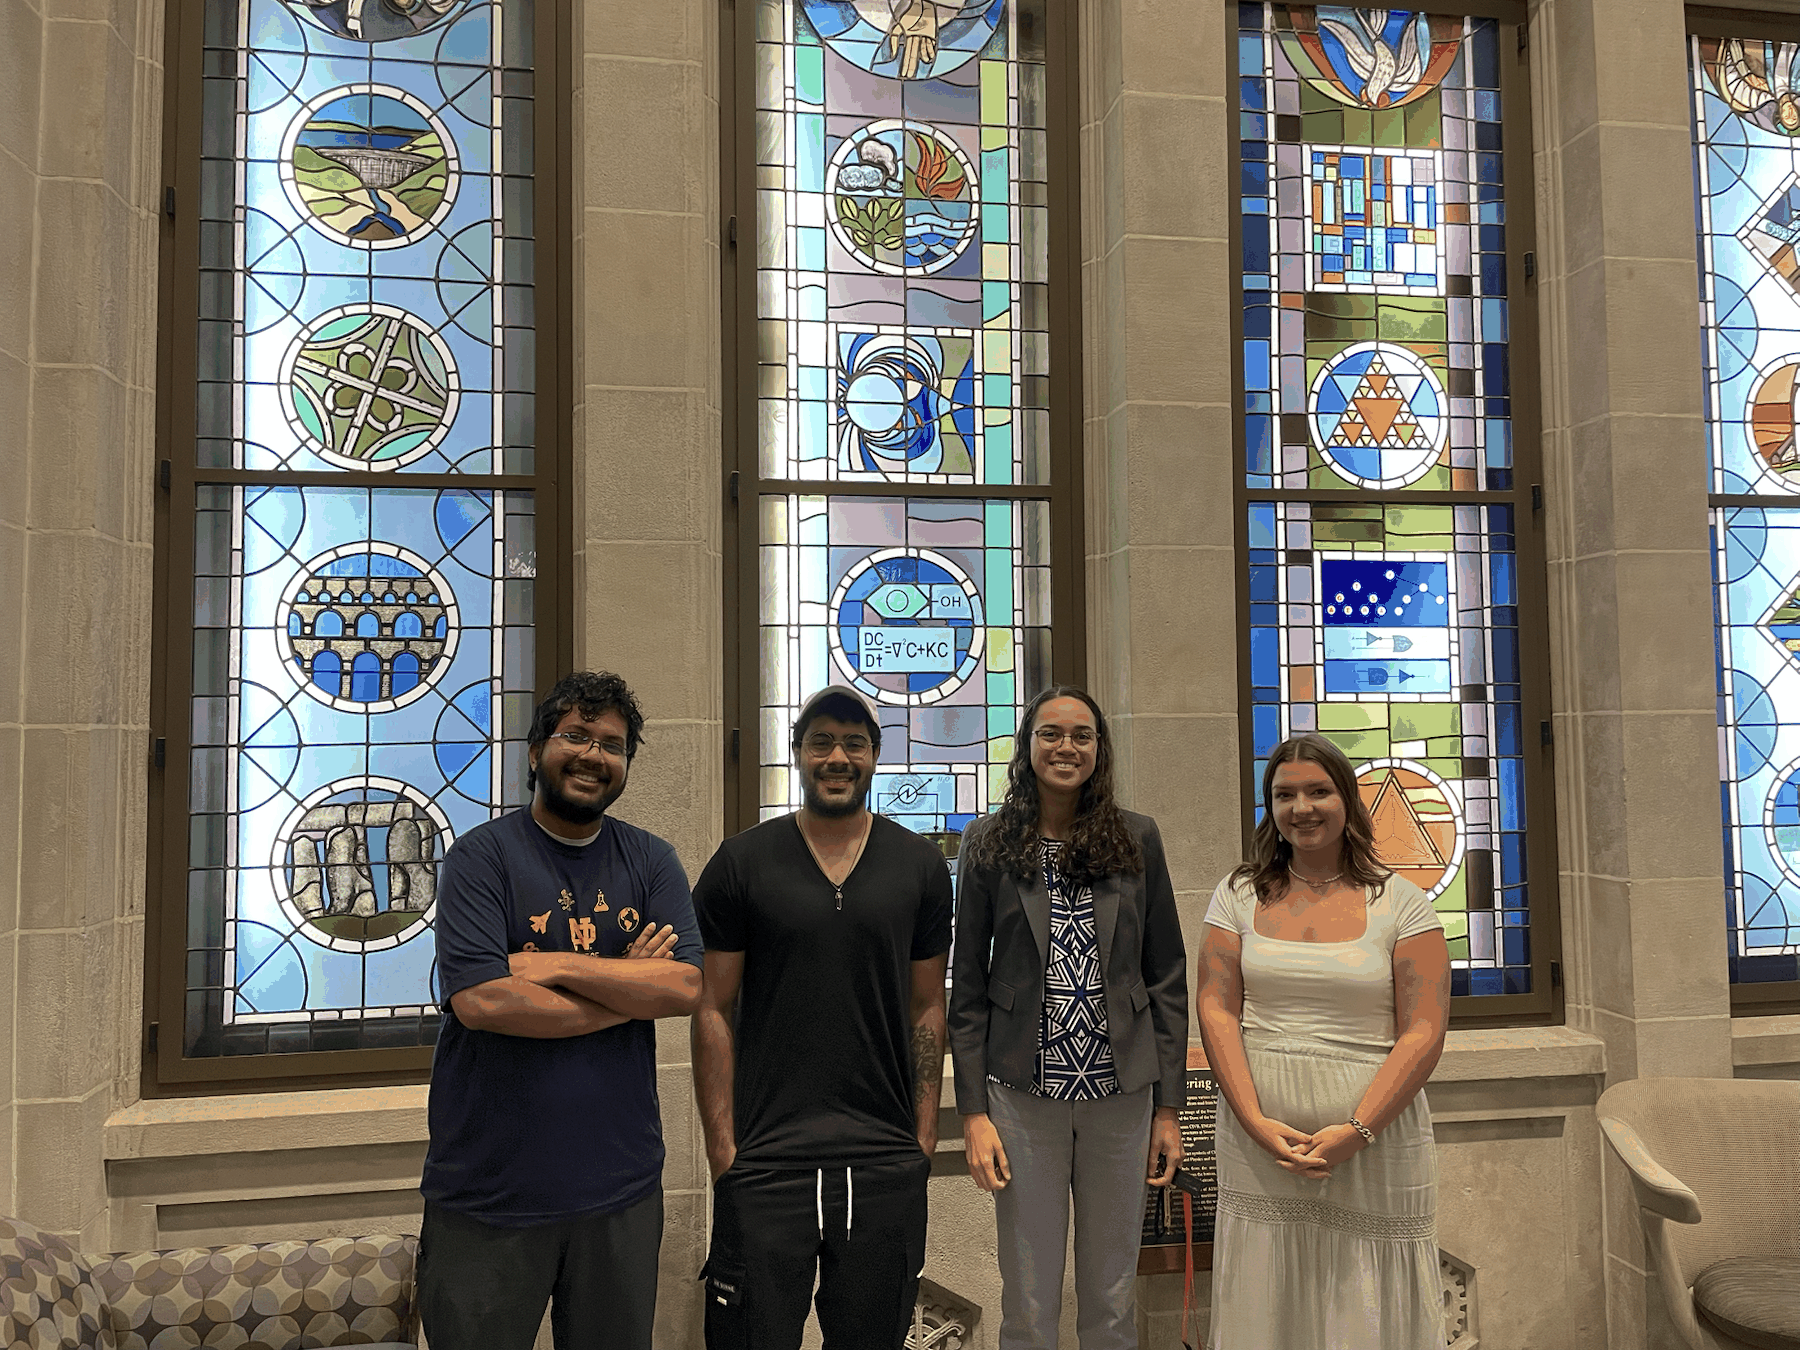
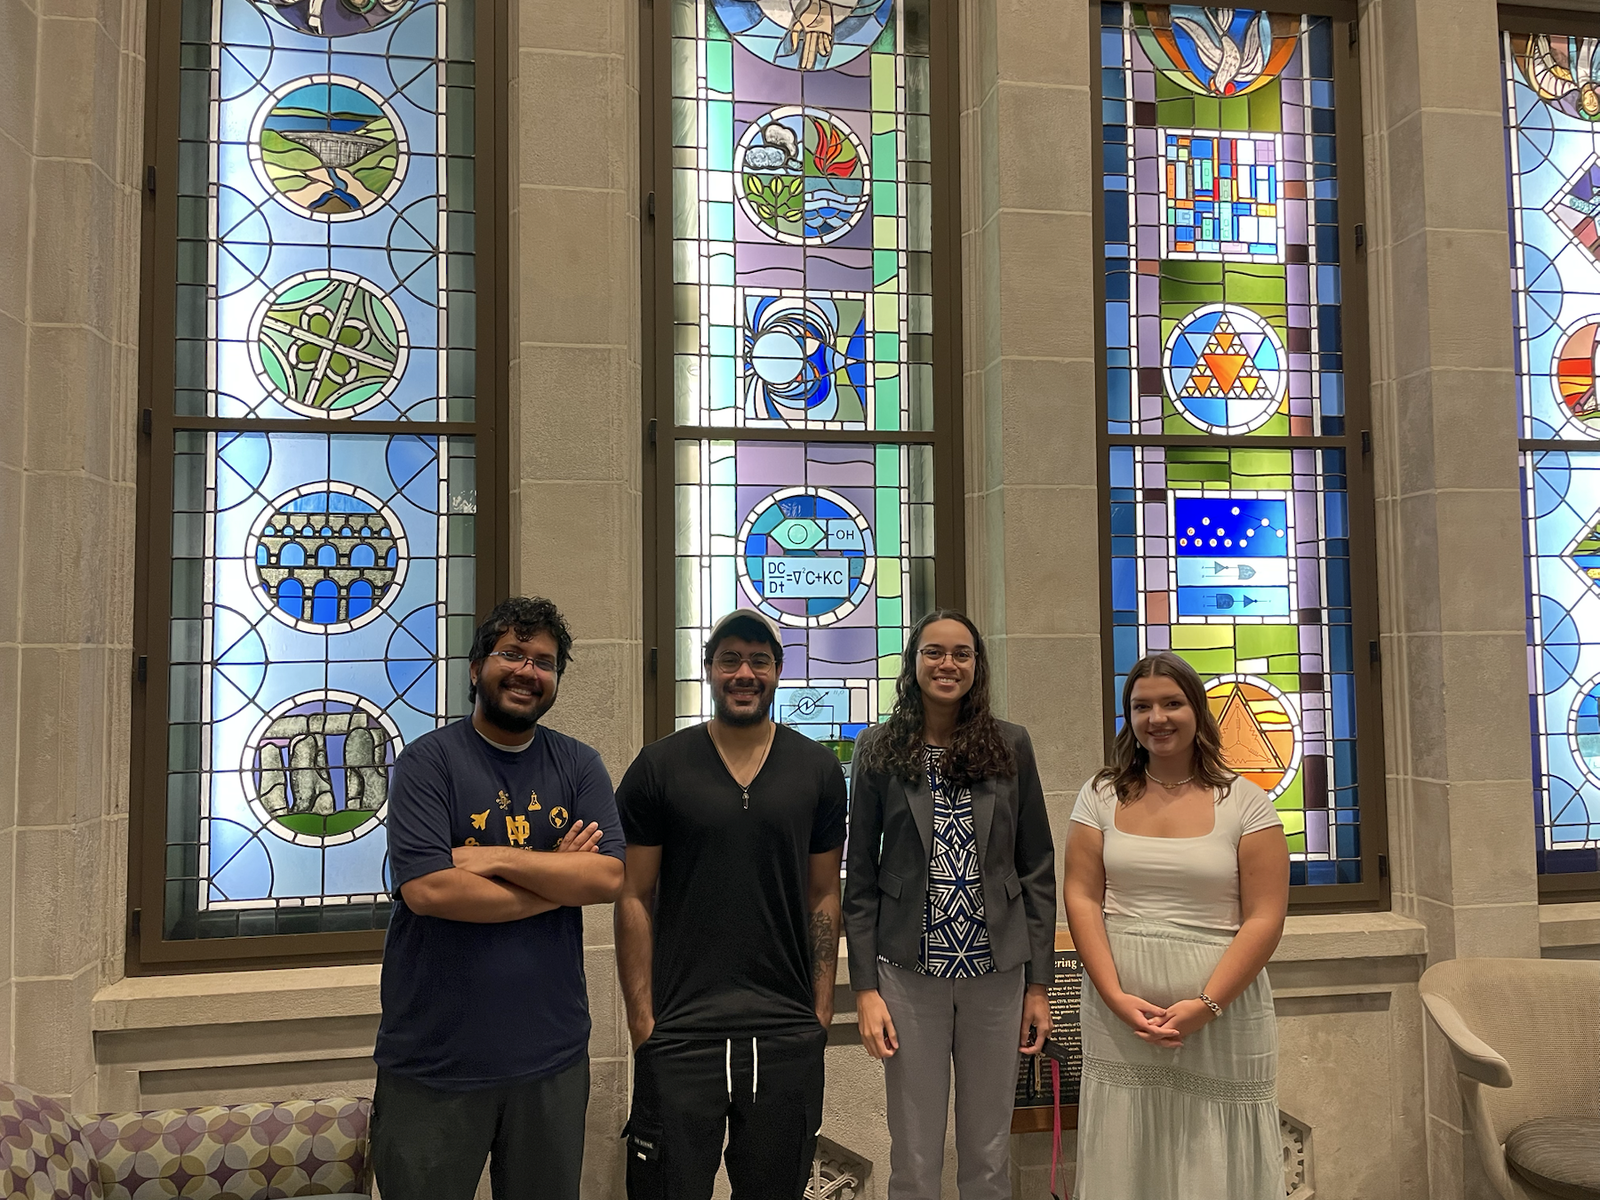
Changes

diff --git a/photos.html b/photos.html
@@ -21,7 +21,7 @@ permalink: /photos/
         <p class="photo-event__caption">Latif’s PhD hooding ceremony. Congratulations, Dr. Siddiq!</p>
       </div>
       <div class="photo-grid">
-        {% include photo_card.html file="img_3236.png" width="1350" height="1800" alt="S2E Lab graduation celebration" %}
+        {% include photo_card.html file="img_3236.png" width="1200" height="1600" alt="S2E Lab graduation celebration" %}
       </div>
     </section>
 
@@ -31,12 +31,12 @@ permalink: /photos/
         <h2 id="photos-april-2026">Group photos and research presentations</h2>
       </div>
       <div class="photo-grid">
-        {% include photo_card.html file="img_0841.png" width="1350" height="1800" alt="S2E Lab group photo outdoors on campus" %}
-        {% include photo_card.html file="img_0843.png" width="1800" height="1350" alt="S2E Lab group photo in the campus courtyard" %}
-        {% include photo_card.html file="img_4957.png" width="1800" height="1350" alt="Group of researchers at a conference" %}
-        {% include photo_card.html file="img_0643.png" width="1800" height="1350" alt="Research presentation on quantum-based real-time data tampering detection" %}
-        {% include photo_card.html file="img_0644.png" width="1800" height="1350" alt="Speaker presenting a quantum-based framework for real-time data tampering detection" %}
-        {% include photo_card.html file="img_0646.png" width="1800" height="1350" alt="Research talk on real-time data tampering detection" %}
+        {% include photo_card.html file="img_0841.png" width="1200" height="1600" alt="S2E Lab group photo outdoors on campus" %}
+        {% include photo_card.html file="img_0843.png" width="1600" height="1200" alt="S2E Lab group photo in the campus courtyard" %}
+        {% include photo_card.html file="img_4957.png" width="1600" height="1200" alt="Group of researchers at a conference" %}
+        {% include photo_card.html file="img_0643.png" width="1600" height="1200" alt="Research presentation on quantum-based real-time data tampering detection" %}
+        {% include photo_card.html file="img_0644.png" width="1600" height="1200" alt="Speaker presenting a quantum-based framework for real-time data tampering detection" %}
+        {% include photo_card.html file="img_0646.png" width="1600" height="1200" alt="Research talk on real-time data tampering detection" %}
       </div>
     </section>
 
@@ -46,8 +46,8 @@ permalink: /photos/
         <h2 id="photos-december-2025">Visitors and lab gatherings</h2>
       </div>
       <div class="photo-grid">
-        {% include photo_card.html file="img_9234.png" width="1800" height="1350" alt="Students gathered together in the S2E Lab" %}
-        {% include photo_card.html file="img_9199.png" width="1800" height="1350" alt="S2E Lab members and visiting researchers after a presentation" %}
+        {% include photo_card.html file="img_9234.png" width="1600" height="1200" alt="Students gathered together in the S2E Lab" %}
+        {% include photo_card.html file="img_9199.png" width="1600" height="1200" alt="S2E Lab members and visiting researchers after a presentation" %}
       </div>
     </section>
 
@@ -57,7 +57,7 @@ permalink: /photos/
         <h2 id="photos-november-2025">Lab life</h2>
       </div>
       <div class="photo-grid">
-        {% include photo_card.html file="img_9129.png" width="1800" height="1350" alt="S2E Lab members enjoying time together" %}
+        {% include photo_card.html file="img_9129.png" width="1600" height="1200" alt="S2E Lab members enjoying time together" %}
       </div>
     </section>
 
@@ -67,10 +67,10 @@ permalink: /photos/
         <h2 id="photos-summer-2025">Research on the road</h2>
       </div>
       <div class="photo-grid">
-        {% include photo_card.html file="img_6741.png" width="1350" height="1800" alt="S2E Lab researchers at a summer gathering" %}
-        {% include photo_card.html file="img_6591.png" width="1800" height="1350" alt="Presentation on quantum-based SMT solving for string theory" %}
-        {% include photo_card.html file="img_6603.png" width="1350" height="1800" alt="Researcher with a poster on quantum-based SMT solving" %}
-        {% include photo_card.html file="img_6610.png" width="1800" height="1350" alt="Researchers with a poster on quantum-based SMT solving" %}
+        {% include photo_card.html file="img_6741.png" width="1200" height="1600" alt="S2E Lab researchers at a summer gathering" %}
+        {% include photo_card.html file="img_6591.png" width="1600" height="1200" alt="Presentation on quantum-based SMT solving for string theory" %}
+        {% include photo_card.html file="img_6603.png" width="1200" height="1600" alt="Researcher with a poster on quantum-based SMT solving" %}
+        {% include photo_card.html file="img_6610.png" width="1600" height="1200" alt="Researchers with a poster on quantum-based SMT solving" %}
       </div>
     </section>
 
@@ -80,8 +80,8 @@ permalink: /photos/
         <h2 id="photos-april-2025">Poster presentations</h2>
       </div>
       <div class="photo-grid">
-        {% include photo_card.html file="img_5455.png" width="1350" height="1800" alt="Researchers with the TITAN quantum adversarial attack detection poster" %}
-        {% include photo_card.html file="img_5457.png" width="1800" height="1350" alt="Researchers presenting the TITAN quantum adversarial attack detection poster" %}
+        {% include photo_card.html file="img_5455.png" width="1200" height="1600" alt="Researchers with the TITAN quantum adversarial attack detection poster" %}
+        {% include photo_card.html file="img_5457.png" width="1600" height="1200" alt="Researchers presenting the TITAN quantum adversarial attack detection poster" %}
       </div>
     </section>
 
@@ -91,8 +91,8 @@ permalink: /photos/
         <h2 id="photos-august-2022">Around campus</h2>
       </div>
       <div class="photo-grid">
-        {% include photo_card.html file="img_1052.png" width="1800" height="1350" alt="S2E Lab members inside a Notre Dame campus building" %}
-        {% include photo_card.html file="img_1055.png" width="1350" height="1800" alt="S2E Lab members near the Golden Dome at Notre Dame" %}
+        {% include photo_card.html file="img_1052.png" width="1600" height="1200" alt="S2E Lab members inside a Notre Dame campus building" %}
+        {% include photo_card.html file="img_1055.png" width="1200" height="1600" alt="S2E Lab members near the Golden Dome at Notre Dame" %}
       </div>
     </section>
   </div>
